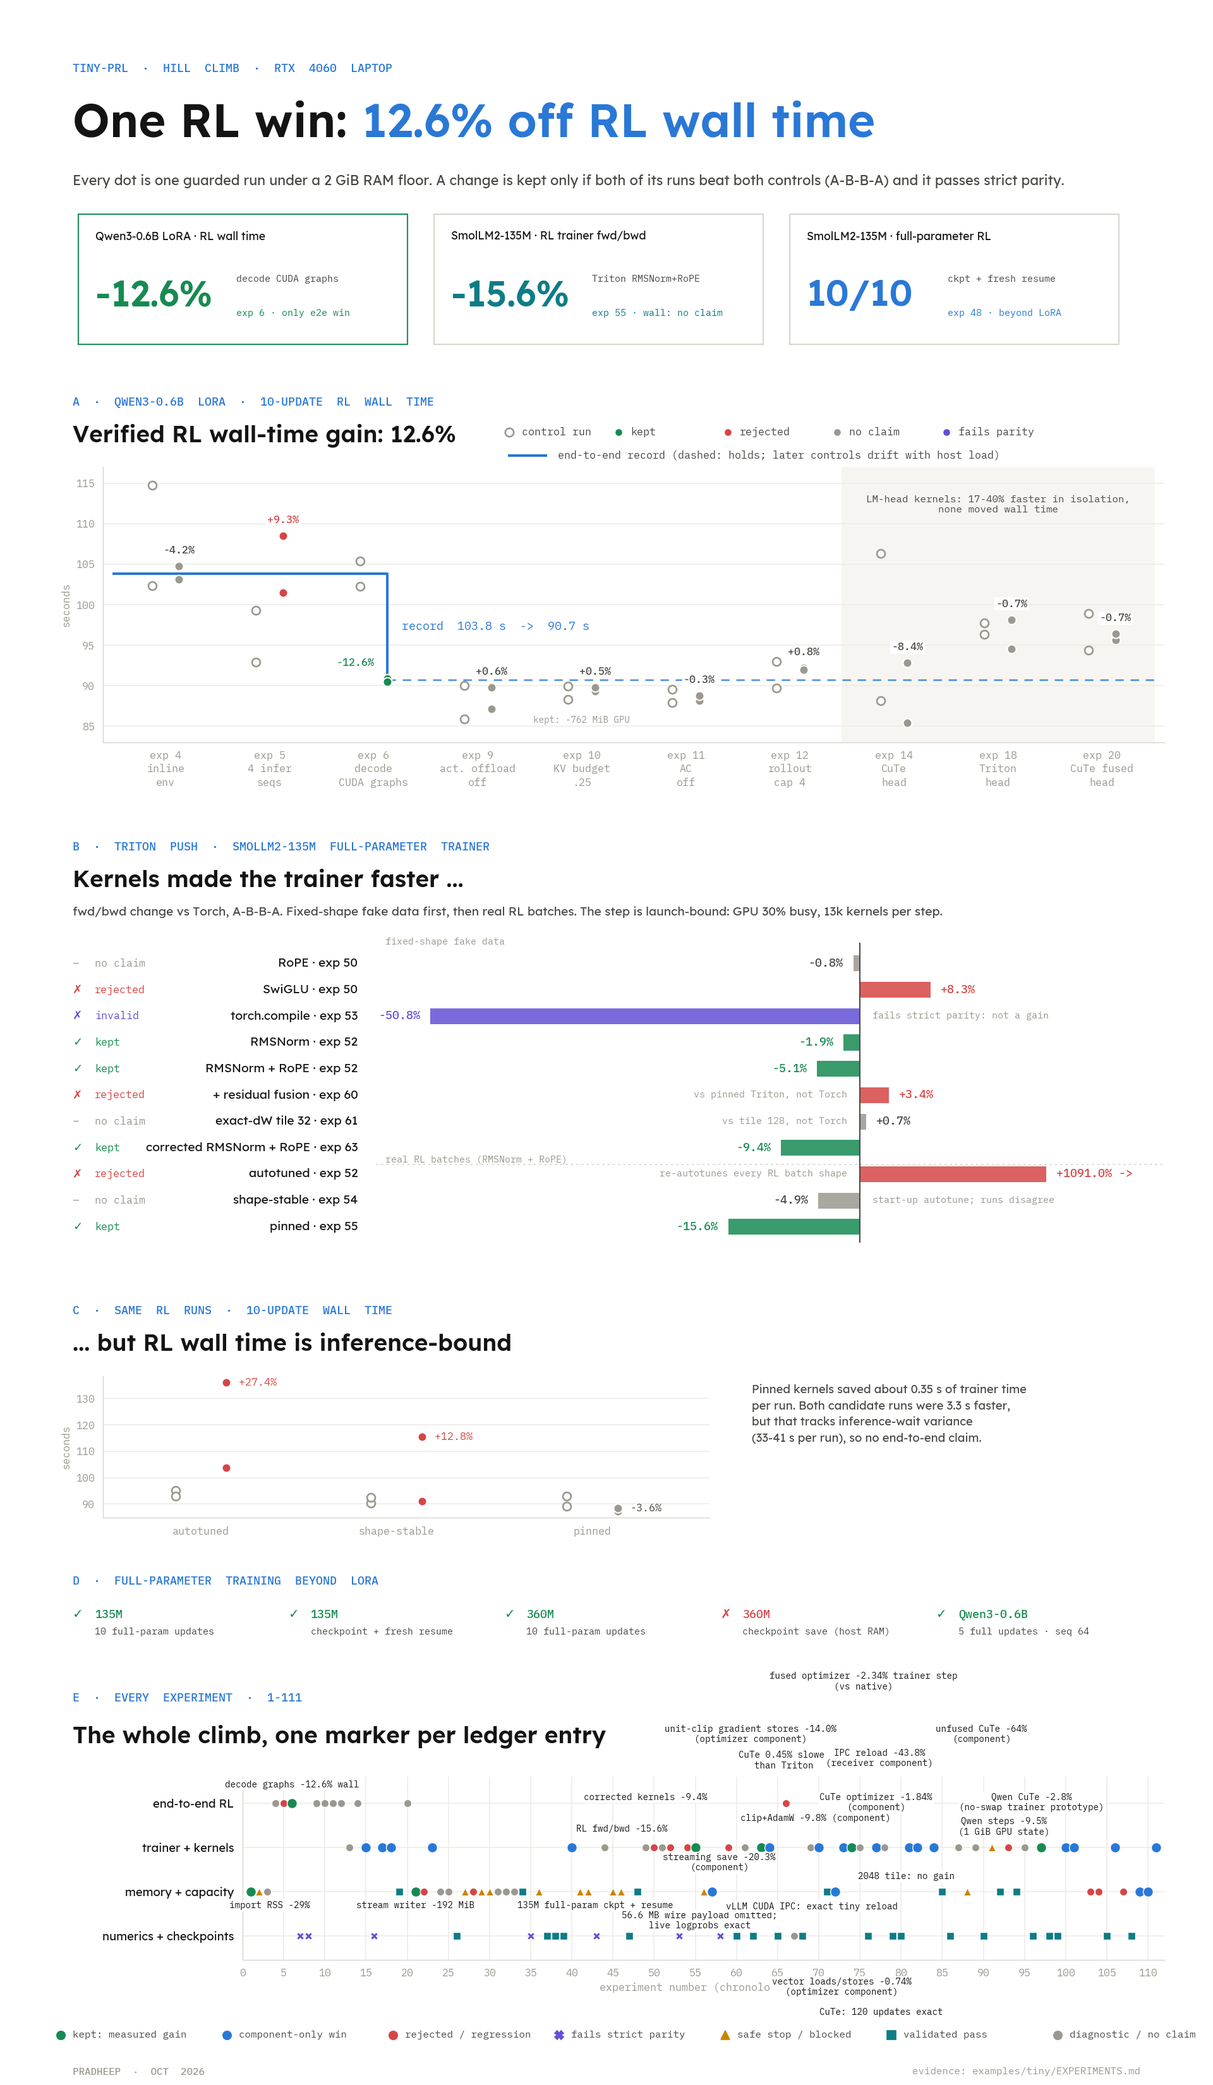
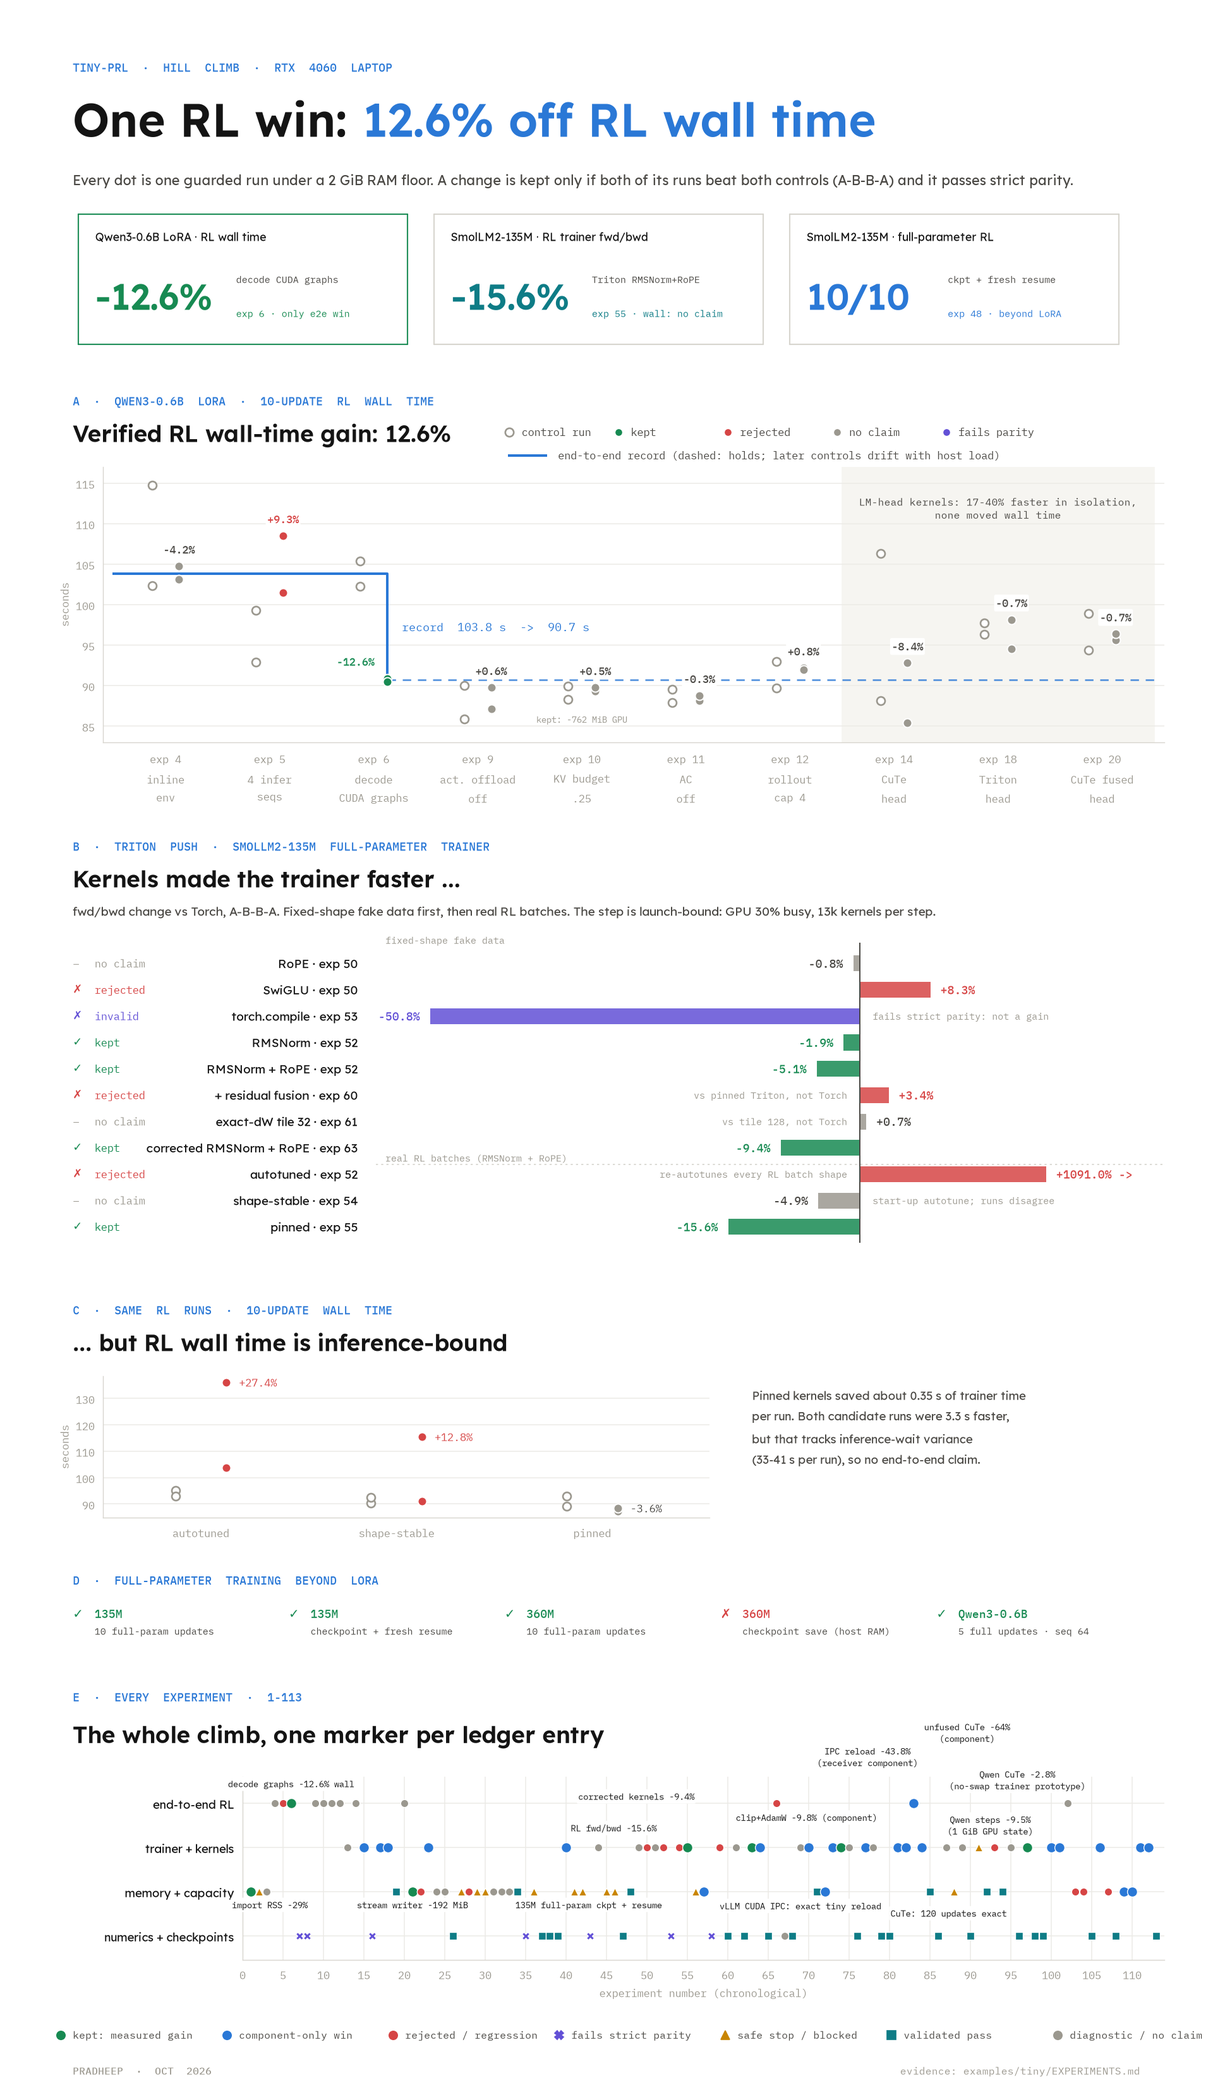
Add the opt-in CuTe chunked AdamW backend and refresh the hill-climb figure
Record experiments 112-113, document the CuTe slice backend, and trim
the experiment-index callouts so labels no longer overlap.

diff --git a/src/prime_rl/trainer/optim/state_offload.py b/src/prime_rl/trainer/optim/state_offload.py
@@ -108,6 +108,49 @@ def _can_step_parameter_in_slices(param: torch.Tensor, state: dict[str, torch.Te
     return True
 
 
+def _can_step_parameter_with_cute(
+    param: torch.Tensor,
+    group: dict,
+    state: dict[str, torch.Tensor],
+) -> bool:
+    if not _can_step_parameter_in_slices(param, state):
+        return False
+    if (
+        group["amsgrad"]
+        or group["maximize"]
+        or group["capturable"]
+        or group["differentiable"]
+        or group["fused"]
+        or state.get("max_exp_avg_sq") is not None
+    ):
+        return False
+    if group["foreach"] is not False and not (group["foreach"] is None and isinstance(param, DTensor)):
+        return False
+    if any(isinstance(group[key], torch.Tensor) for key in ("lr", "eps", "weight_decay")):
+        return False
+    if any(isinstance(beta, torch.Tensor) for beta in group["betas"]):
+        return False
+
+    grad = param.grad
+    local_param = param.to_local() if isinstance(param, DTensor) else param
+    local_grad = grad.to_local() if isinstance(grad, DTensor) else grad
+    moments = [state["exp_avg"], state["exp_avg_sq"]]
+    local_moments = [value.to_local() if isinstance(value, DTensor) else value for value in moments]
+    tensors = [local_param, local_grad, *local_moments]
+    return (
+        state["step"].dtype == torch.float32
+        and state["step"].numel() == 1
+        and all(tensor.shape == local_param.shape for tensor in tensors[1:])
+        and all(
+            tensor.dtype == torch.float32 and tensor.layout == torch.strided and tensor.is_contiguous()
+            for tensor in tensors
+        )
+        and local_param.data_ptr() % 16 == 0
+        and local_grad.data_ptr() % 16 == 0
+        and all(tensor.device.type == "cpu" for tensor in local_moments)
+    )
+
+
 class CPUOffloadOptimizer(OffloadOptimizer):
     """Wraps an optimizer to keep states on CPU, moving to GPU only for step().
 
@@ -123,12 +166,15 @@ class CPUOffloadOptimizer(OffloadOptimizer):
         chunked: bool = False,
         gpu_state_budget_bytes: int = 0,
         parameter_names: dict[int, str] | None = None,
+        cute_adamw_plan_type: type | None = None,
     ):
         self.optimizer = optimizer
         self.pin_memory = pin_memory
         self.chunked = chunked
         self.gpu_state_budget_bytes = gpu_state_budget_bytes
         self.parameter_names = parameter_names or {}
+        self._cute_adamw_plan_type = cute_adamw_plan_type
+        self._cute_adamw_plans = {}
         self._initialized = False
         self._cpu_buffers: dict[tuple[torch.Tensor, str], torch.Tensor] = {}
         self._state_chunks = self._build_state_chunks() if chunked else []
@@ -327,6 +373,10 @@ class CPUOffloadOptimizer(OffloadOptimizer):
                 param = active_chunk[0]
                 state = self.optimizer.state[param]
                 group = self._param_groups_by_id[id(param)]
+                if self._cute_adamw_plan_type is not None and _can_step_parameter_with_cute(param, group, state):
+                    with torch.no_grad():
+                        self._step_parameter_in_cute_slices(param, group, state)
+                    continue
                 if not group["differentiable"] and _can_step_parameter_in_slices(param, state):
                     with torch.no_grad():
                         _step_parameter_in_slices(param, group, state)
@@ -346,6 +396,52 @@ class CPUOffloadOptimizer(OffloadOptimizer):
                     param.grad = grad
         self._initialized = True
         return result
+
+    def _step_parameter_in_cute_slices(
+        self,
+        param: torch.Tensor,
+        group: dict,
+        state: dict[str, torch.Tensor],
+    ) -> None:
+        local_param = self._local_param(param)
+        grad = param.grad
+        local_grad = grad.to_local() if isinstance(grad, DTensor) else grad
+        avg = state["exp_avg"]
+        avg_sq = state["exp_avg_sq"]
+        local_avg = self._local_param(avg)
+        local_avg_sq = self._local_param(avg_sq)
+        tracked = [(tensor, tensor._version) for tensor in (param, avg, avg_sq) if isinstance(tensor, DTensor)]
+        param_flat, grad_flat = local_param.view(-1), local_grad.view(-1)
+        avg_flat, avg_sq_flat = local_avg.view(-1), local_avg_sq.view(-1)
+        for start in range(0, param_flat.numel(), STATE_CHUNK_TARGET_NUMEL):
+            end = min(start + STATE_CHUNK_TARGET_NUMEL, param_flat.numel())
+            param_slice, grad_slice = param_flat[start:end], grad_flat[start:end]
+            avg_cpu_slice, avg_sq_cpu_slice = avg_flat[start:end], avg_sq_flat[start:end]
+            avg_slice = avg_cpu_slice.to(device=local_param.device)
+            avg_sq_slice = avg_sq_cpu_slice.to(device=local_param.device)
+            key = (end - start, local_param.device.index)
+            plan = self._cute_adamw_plans.get(key)
+            if plan is None:
+                plan = self._cute_adamw_plan_type(param_slice)
+                self._cute_adamw_plans[key] = plan
+            plan.step_(
+                param_slice,
+                grad_slice,
+                avg_slice,
+                avg_sq_slice,
+                state["step"],
+                lr=group["lr"],
+                betas=group["betas"],
+                eps=group["eps"],
+                weight_decay=group["weight_decay"],
+            )
+            avg_cpu_slice.copy_(avg_slice)
+            avg_sq_cpu_slice.copy_(avg_sq_slice)
+            del avg_slice, avg_sq_slice
+        state["step"].add_(1)
+        for tensor, version in tracked:
+            if tensor._version == version:
+                torch.autograd.graph.increment_version(tensor)
 
     def zero_grad(self, set_to_none: bool = True):
         self.optimizer.zero_grad(set_to_none=set_to_none)

diff --git a/src/prime_rl/trainer/optim/__init__.py b/src/prime_rl/trainer/optim/__init__.py
@@ -1,3 +1,5 @@
+from importlib.util import find_spec
+
 import torch
 import torch.distributed as dist
 from dion import Muon
@@ -133,12 +135,31 @@ def setup_optimizer(
         # Pinned CUDA host blocks are power-of-two rounded per allocation; use
         # pageable FP32 state for the opt-in chunked path to avoid that overhead.
         gpu_state_budget_bytes = config.gpu_state_budget_bytes if config.type == "adamw" else 0
+        cute_adamw_plan_type = None
+        if chunked_cpu_offload and config.type == "adamw" and config.chunked_adamw_backend == "cute":
+            reason = "prime-kernels is not installed"
+            if find_spec("prime_kernels") is not None:
+                import prime_kernels
+
+                if "cute_sliced_adamw" in prime_kernels.KERNELS:
+                    if prime_kernels.is_available("cute_sliced_adamw"):
+                        cute_adamw_plan_type = prime_kernels.load("cute_sliced_adamw").CuteUnfusedAdamWSlice
+                        reason = None
+                    else:
+                        reason = prime_kernels.unavailable_reason("cute_sliced_adamw")
+                else:
+                    reason = "cute_sliced_adamw is not registered in this prime-kernels install"
+            if cute_adamw_plan_type is None:
+                get_logger().warning(f"Falling back to Torch for chunked AdamW slices: {reason}")
+            else:
+                get_logger().info("Using CuTe for supported chunked FP32 AdamW slices; unsupported groups use Torch")
         offloaded_optimizer = CPUOffloadOptimizer(
             optimizer,
             pin_memory=not chunked_cpu_offload,
             chunked=chunked_cpu_offload,
             gpu_state_budget_bytes=gpu_state_budget_bytes,
             parameter_names={id(param): name for name, param in named_params},
+            cute_adamw_plan_type=cute_adamw_plan_type,
         )
         if gpu_state_budget_bytes:
             get_logger().info(

diff --git a/tools/plot_tiny_hillclimb.py b/tools/plot_tiny_hillclimb.py
@@ -207,6 +207,8 @@ EXPERIMENTS = {
     109: (MEM, "component"),
     110: (MEM, "component"),
     111: (TRAIN, "component"),
+    112: (TRAIN, "component"),
+    113: (NUM, "validated"),
 }
 # Callout text with (dx, dy) offsets in points, staggered so neighbours do not collide.
 CALLOUTS = {
@@ -217,20 +219,12 @@ CALLOUTS = {
     55: ("RL fwd/bwd -15.6%", (-70, 15)),
     63: ("corrected kernels -9.4%", (-110, 45)),
     64: ("clip+AdamW -9.8% (component)", (44, 25)),
-    70: ("CuTe 0.45% slower\nthan Triton", (-33, 75)),
-    71: ("56.6 MB wire payload omitted;\nlive logprobs exact", (-121, -35)),
-    72: ("streaming save -20.3%\n(component)", (-110, 20)),
-    73: ("unit-clip gradient stores -14.0%\n(optimizer component)", (-88, 100)),
-    74: ("fused optimizer -2.34% trainer step\n(vs native)", (11, 150)),
-    75: ("2048 tile: no gain", (44, -30)),
-    77: ("vector loads/stores -0.74%\n(optimizer component)", (-33, -140)),
     79: ("vLLM CUDA IPC: exact tiny reload", (-77, 25)),
     83: ("IPC reload -43.8%\n(receiver component)", (-44, 35)),
-    84: ("CuTe optimizer -1.84%\n(component)", (-55, 35)),
-    86: ("CuTe: 120 updates exact", (-66, -75)),
+    86: ("CuTe: 120 updates exact", (10, 18)),
     97: ("Qwen steps -9.5%\n(1 GiB GPU state)", (-35, 12)),
     100: ("unfused CuTe -64%\n(component)", (-80, 100)),
-    101: ("Qwen CuTe -2.8%\n(no-swap trainer prototype)", (-40, 35)),
+    101: ("Qwen CuTe -2.8%\n(no-swap trainer prototype)", (-40, 55)),
 }
 
 MILESTONES = [

diff --git a/packages/prime-rl-configs/src/prime_rl/configs/trainer.py b/packages/prime-rl-configs/src/prime_rl/configs/trainer.py
@@ -434,6 +434,9 @@ class BaseOptimizerConfig(BaseConfig):
 class AdamWConfig(BaseOptimizerConfig):
     type: Literal["adamw"] = "adamw"
 
+    chunked_adamw_backend: Literal["torch", "cute"] = "torch"
+    """Kernel used for supported slices with ``optimizer_chunked`` offload."""
+
     fused_clip: bool = False
     """Use the Triton clipped AdamW step for single-GPU FP32 parameters without optimizer offload."""
 
@@ -703,6 +706,16 @@ class TrainerConfig(BaseConfig):
     def gpu_optimizer_state_budget_requires_chunked_offload(self):
         if self.optim.type == "adamw" and self.optim.gpu_state_budget_bytes and self.model.offload != "optimizer_chunked":
             raise ValueError("AdamW GPU-resident state budget requires optimizer_chunked offload")
+        return self
+
+    @model_validator(mode="after")
+    def chunked_adamw_backend_requires_chunked_offload(self):
+        if (
+            self.optim.type == "adamw"
+            and self.optim.chunked_adamw_backend != "torch"
+            and self.model.offload != "optimizer_chunked"
+        ):
+            raise ValueError("AdamW chunked backend requires optimizer_chunked offload")
         return self
 
     @model_validator(mode="after")

diff --git a/tests/unit/test_configs.py b/tests/unit/test_configs.py
@@ -374,17 +374,22 @@ def test_optimizer_state_offload_keeps_legacy_default(config_cls):
 
     assert config.model.offload == "optimizer"
     assert config.optim.gpu_state_budget_bytes == 0
+    assert config.optim.chunked_adamw_backend == "torch"
 
     configured = config_cls.model_validate(
         {
             "model": {"offload": "optimizer_chunked"},
-            "optim": {"gpu_state_budget_bytes": 1024},
+            "optim": {"gpu_state_budget_bytes": 1024, "chunked_adamw_backend": "cute"},
         }
     )
     assert configured.optim.gpu_state_budget_bytes == 1024
+    assert configured.optim.chunked_adamw_backend == "cute"
 
     with pytest.raises(ValidationError, match="requires optimizer_chunked offload"):
         config_cls.model_validate({"optim": {"gpu_state_budget_bytes": 1024}})
+
+    with pytest.raises(ValidationError, match="backend requires optimizer_chunked offload"):
+        config_cls.model_validate({"optim": {"chunked_adamw_backend": "cute"}})
 
 
 def test_moe_router_dtype_auto_resolves_per_trainer():

diff --git a/tests/unit/train/test_state_offload.py b/tests/unit/train/test_state_offload.py
@@ -157,6 +157,10 @@ def test_chunked_gpu_state_budget_keeps_selected_fp32_moments_resident() -> None
 def test_chunked_oversized_cpu_state_matches_adamw_and_resumes(monkeypatch: pytest.MonkeyPatch) -> None:
     monkeypatch.setattr(state_offload_module, "STATE_CHUNK_TARGET_NUMEL", 4)
 
+    class UnexpectedCutePlan:
+        def __init__(self, param: torch.Tensor):
+            raise AssertionError("AMSGrad must stay on the Torch fallback")
+
     def make_parameters() -> list[torch.nn.Parameter]:
         small = torch.nn.Parameter(torch.tensor([0.2, -0.4], device="cuda"))
         large = torch.nn.Parameter(torch.linspace(-1, 1, 13, device="cuda"))
@@ -181,6 +185,7 @@ def test_chunked_oversized_cpu_state_matches_adamw_and_resumes(monkeypatch: pyte
         ),
         pin_memory=False,
         chunked=True,
+        cute_adamw_plan_type=UnexpectedCutePlan,
     )
 
     def assign_grads(params: list[torch.nn.Parameter], step: int) -> None:

diff --git a/packages/prime-rl-configs/src/prime_rl/configs/sft.py b/packages/prime-rl-configs/src/prime_rl/configs/sft.py
@@ -279,6 +279,16 @@ class SFTConfig(BaseConfig):
         return self
 
     @model_validator(mode="after")
+    def chunked_adamw_backend_requires_chunked_offload(self):
+        if (
+            self.optim.type == "adamw"
+            and self.optim.chunked_adamw_backend != "torch"
+            and self.model.offload != "optimizer_chunked"
+        ):
+            raise ValueError("AdamW chunked backend requires optimizer_chunked offload")
+        return self
+
+    @model_validator(mode="after")
     def fused_clip_requires_supported_config(self):
         if getattr(self.optim, "fused_clip", False):
             if self.optim.max_norm is None:

diff --git a/examples/tiny/EXPERIMENTS.md b/examples/tiny/EXPERIMENTS.md
@@ -1013,3 +1013,15 @@ Evidence: `outputs/qwen-fulltrain-20261022/slice-pipeline-r4/{result.json,guard/
 One live post-update SmolLM2-135M trainer and one persistent vLLM worker compared production per-tensor IPC against five-bucket IPC in A-B-B-A order. The same weights were used throughout; base checkpoint reset and complete parameter/output proofs happened outside timing. Timers included sender startup, live DTensor export/casting/packing, IPC, receiver reload and final completion acknowledgement. The two-sample medians were 308.042 ms per-tensor and 128.895 ms bucketed. All 182 parameter hashes, tokens/logprobs, tied aliases and storage independence checks passed for each trial.
 
 This is a diagnostic component result with only two samples per arm, pending warmups and a longer matched repeat; it does not establish an RL wall-time gain. The guard returned 0 in 26.08 seconds with a 5,138 MiB GPU peak and at least 4.97 GB available host RAM. An earlier harness attempt stopped before GPU work because it passed an RL config to the trainer-only parser; this revision resolves the direct trainer config during CPU preflight. Evidence: `outputs/tiny-kernel-20261022/ipc-bucket-timing-r2/{actual-r2/result.json,guard-r2/result.json,validate_timing.py,source-hashes.sha256}`.
+
+## Experiment 112: warmed five-bucket IPC gain survives a longer matched repeat
+
+After an explicit verified warmup for each transport, four balanced A-B-B-A / B-A-A-B blocks produced eight timed samples per path using the same live updated trainer and persistent receiver. Median export-through-completion time fell from 315.127 ms per-tensor to 79.793 ms bucketed (-74.68%). The slowest bucketed sample (131.199 ms) beat the fastest per-tensor sample (249.208 ms). Every trial passed full parameter hashes, deterministic tokens/logprobs, base reset, updated embedding, tied aliases and staging-storage independence checks outside timing.
+
+The guard returned 0 in 37.69 seconds, with a 5,138 MiB GPU peak, at least 4.74 GB available host RAM and zero sampled cgroup swap. This is a matched weight-reload component gain for the prototype protocol; production integration and complete RL validation remain pending. Evidence: `outputs/tiny-kernel-20261022/ipc-bucket-timing-r4/{actual-r4/result.json,guard-r4/result.json,validate_timing.py,source-hashes.sha256}`.
+
+## Experiment 113: integrated CuTe slices pass registry and full-trainer correctness
+
+The registered Python-only SM 8.9 kernel passed all 13 strict shape cases with exact parameter/moment bits, untouched gradient bits and versions, and stale-saved-tensor mutation detection. The actual production config then selected the CuTe optimizer route for five full Qwen updates, ten embedding slices per update, with the known exact 1,271-entry final state hash. The complete preflight used zero sampled swap, a 7,221 MiB GPU peak and at least 2.62 GB available host RAM; its guard returned 0 in 25.89 seconds. The six existing state-offload tests and both focused RL/SFT config cases passed separately.
+
+The first integration probe segfaulted in the compiler process because a tuple options argument silently skipped parsing the TVM-FFI flag. The corrected string argument passed the retry. A later native timing arm stopped before updates because its observer compared two None values as kernel identity; that measurement-only assertion is corrected in a separate frozen repeat. Production speed validation remains separate from this correctness result. Evidence: `outputs/qwen-fulltrain-20261022/cute-production-verify-r2/{probes/registry-result.json,probes/guard/result.json,preflight/,independent-review.json,protocol/}` and `outputs/qwen-fulltrain-20261022/cute-production-tests-r1/`.

diff --git a/docs/tiny-prl.md b/docs/tiny-prl.md
@@ -82,6 +82,23 @@ profile does not configure inference or rollouts and does not establish RL
 quality, co-residency capacity, or longer context support. GPU and host-memory
 fit still depend on the target machine.
 
+The chunked optimizer also has an opt-in CuTe slice backend. Keep the default
+Torch backend unless the installed `prime-kernels` build reports
+`cute_sliced_adamw` available. For the profile above, enable it with:
+
+```bash
+uv run --no-sync rl @ examples/tiny/qwen3-full-trainer.toml \
+  --trainer.optim.chunked-adamw-backend cute
+```
+
+CuTe applies only to supported contiguous FP32 CUDA slices with CPU FP32
+moments and step state. Unsupported optimizer groups and unavailable kernel
+builds fall back to Torch. The registered kernel currently targets SM 8.9; on
+other compute capabilities the profile uses Torch. On the tested SM 8.9
+machine, the five-update prototype measured 2.88% lower warm step medians with
+zero swap and an identical 1,271-entry final state hash. This result is specific
+to this short fake-data profile and is not a general training-speed guarantee.
+
 ## Opt-in CUDA IPC weight updates
 
 Run the ten-update SmolLM2-135M full-parameter profile with:
